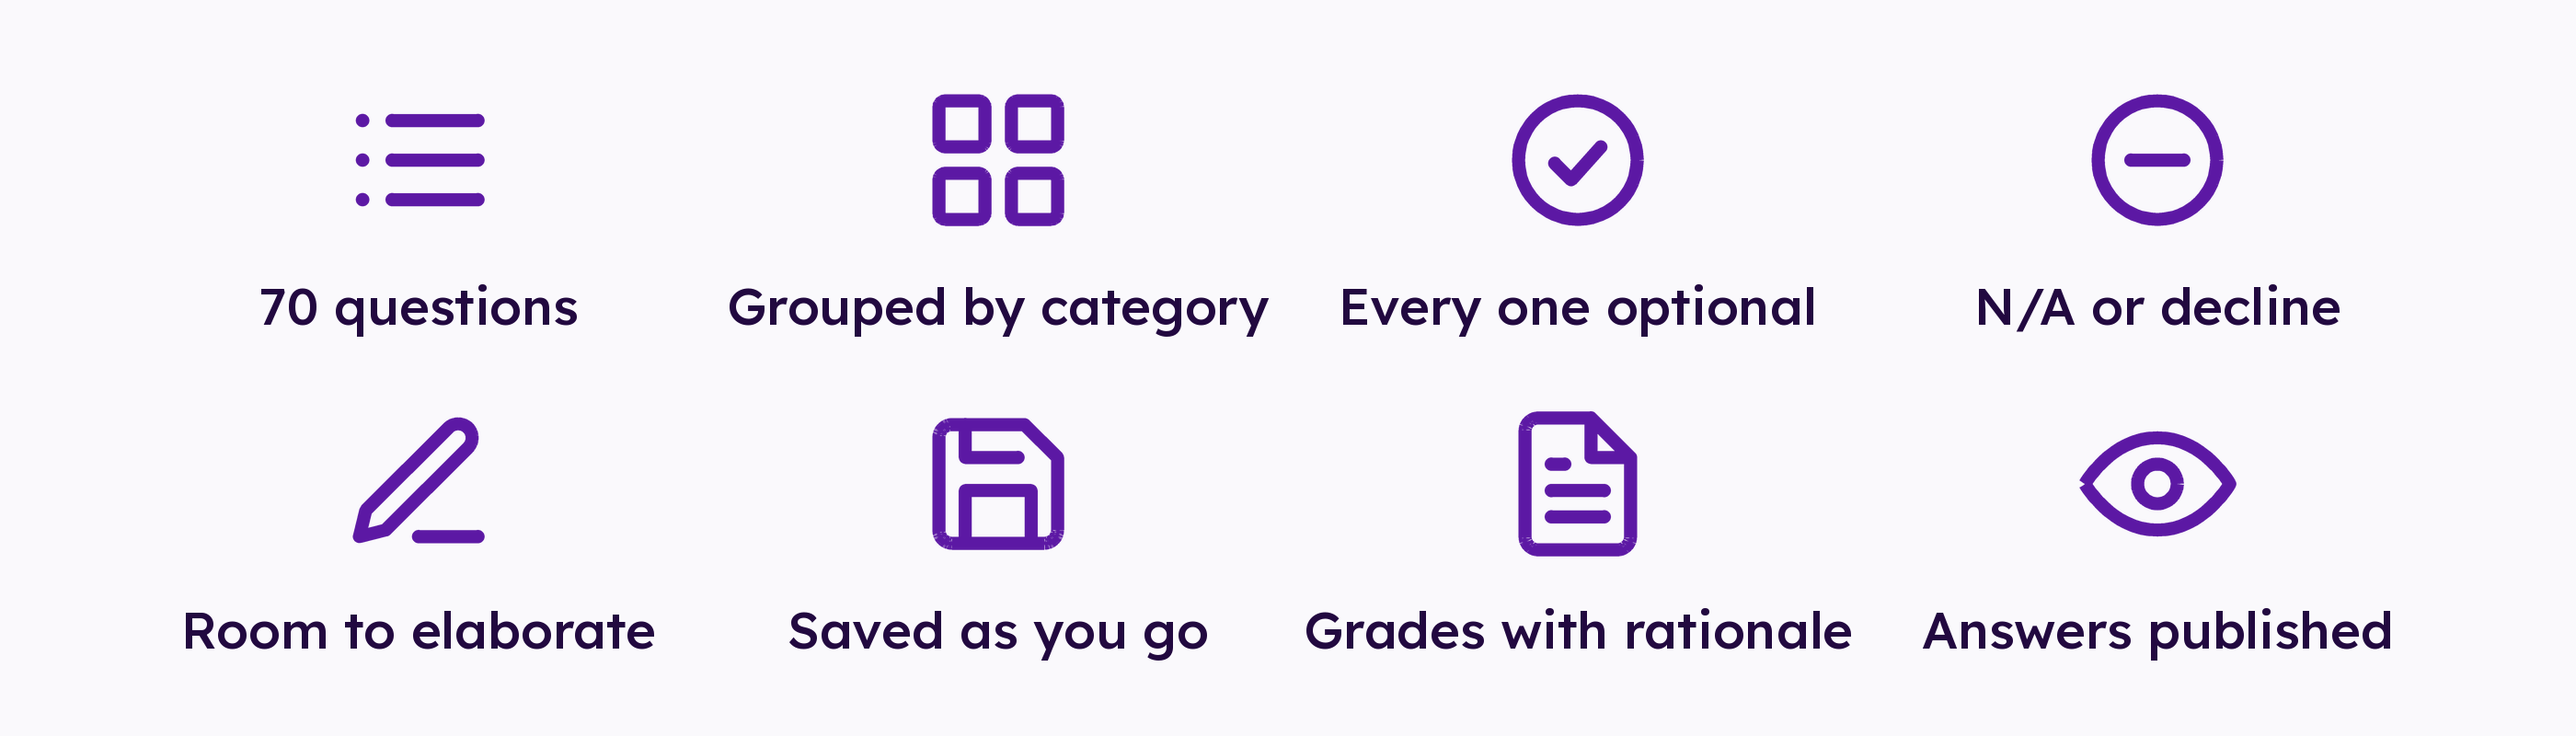
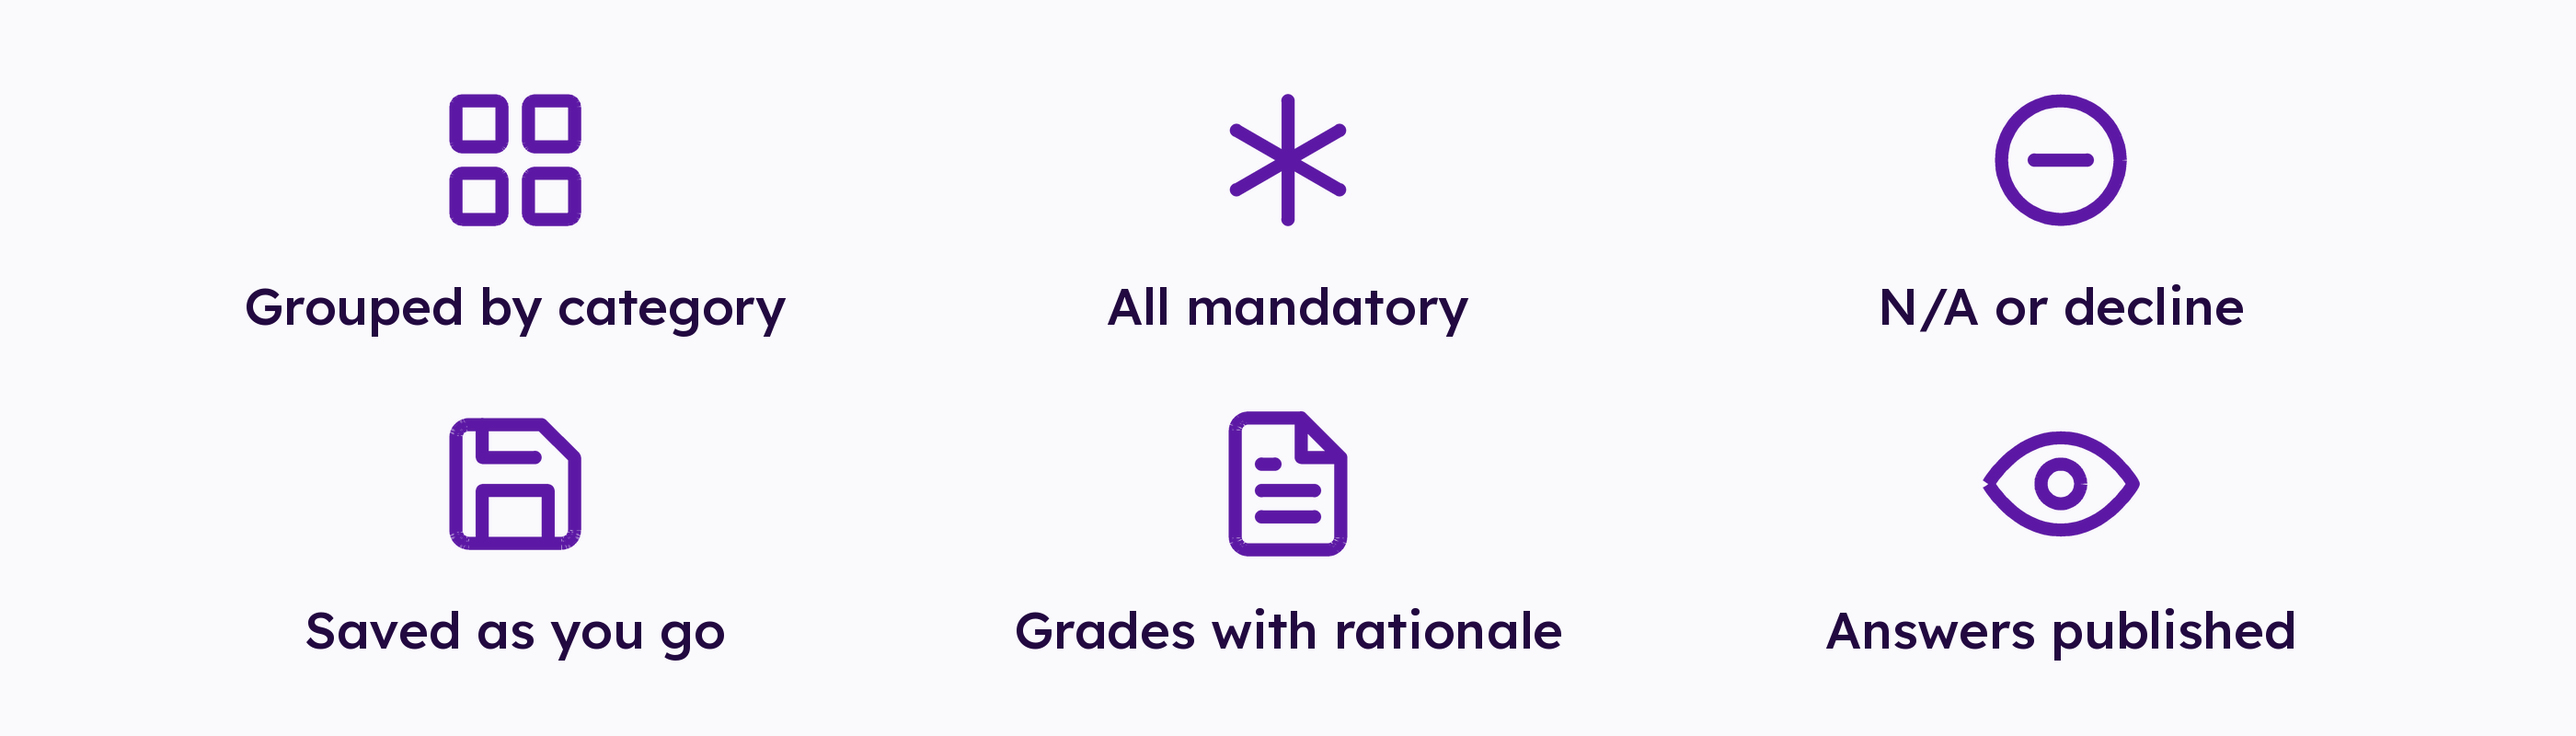
feat: add two late walking questions, make every question mandatory
- finalize.py: WLK-05 and WLK-06 arrive by CLI-12's route (no master row,
  carrying their own text), but graded. README documents why append.py
  can't take them: a new Form Responses 1 row renumbers every FR-* ID.
- gen-tally-categories.py: info drops the hand-maintained question count
  and "room to elaborate"; "every one optional" becomes "all mandatory"
  with an asterisk. OPTIONAL and THRESHOLD are kept but no longer shipped.
- gen-tally-back.py: new "go back" pointer strip for the form.

diff --git a/scripts/gen-tally-categories.py b/scripts/gen-tally-categories.py
@@ -357,28 +357,40 @@ HOUSEKEEPING = [
      '2-2h14a2 2 0 0 1 2 2z"/><path d="M8 9h8M8 13h5"/></svg>'),
 ]
 
-# The info page, distilled to the eight things a candidate needs to know before
-# starting. Wording follows that page; QUESTION_COUNT is stated there too, so it
-# has to be updated by hand when the shipping set changes size.
-QUESTION_COUNT = 70
+# The info page, distilled to the six things a candidate needs to know before
+# starting. Wording follows that page.
+#
+# It was eight. The question count came out because it was a hand-maintained
+# number in a rendered image - the one tile here that silently goes wrong when
+# the shipping set changes size, and it had no way of knowing it had. "Room to
+# elaborate" came out with it: it described the answer fields rather than a rule
+# of the questionnaire, which is the only thing the other five tiles do.
 INFO = [
-    ("%d questions" % QUESTION_COUNT,
-     '<svg viewBox="0 0 24 24"><path d="M8 6h13M8 12h13M8 18h13"/>'
-     '<path d="M3.5 6h.01M3.5 12h.01M3.5 18h.01"/></svg>'),
     ("Grouped by category",
      '<svg viewBox="0 0 24 24"><rect x="3" y="3" width="7" height="7" rx="1"/>'
      '<rect x="14" y="3" width="7" height="7" rx="1"/>'
      '<rect x="3" y="14" width="7" height="7" rx="1"/>'
      '<rect x="14" y="14" width="7" height="7" rx="1"/></svg>'),
-    ("Every one optional",
-     '<svg viewBox="0 0 24 24"><circle cx="12" cy="12" r="9"/>'
-     '<path d="M8.5 12.5l2.5 2.5 4.5-5"/></svg>'),
+    # An asterisk, the mark every form in the world puts beside a required field,
+    # and the reason this tile isn't a ticked circle any more: a tick reads as
+    # "you're fine", which is what the label used to say and is now the opposite
+    # of what it says. The three strokes cross at the centre and the round caps
+    # render_icon adds give it the six blunt points a form asterisk has.
+    #
+    # Drawn to a radius of 9 rather than a typographic asterisk's tighter one, for
+    # the reason `threshold`'s scale gives: at this render size an icon that only
+    # fills the middle of its box reads as a smaller icon, not a different shape,
+    # and the grid and the circle either side of it both run 3 to 21.
+    ("All mandatory",
+     '<svg viewBox="0 0 24 24"><line x1="12" y1="3" x2="12" y2="21"/>'
+     '<line x1="4.2" y1="7.5" x2="19.8" y2="16.5"/>'
+     '<line x1="4.2" y1="16.5" x2="19.8" y2="7.5"/></svg>'),
+    # Kept, and load-bearing now in a way it wasn't: with every question required,
+    # this is the only tile that tells a candidate what to do about a question
+    # they can't answer.
     ("N/A or decline",
      '<svg viewBox="0 0 24 24"><circle cx="12" cy="12" r="9"/>'
      '<path d="M8 12h8"/></svg>'),
-    ("Room to elaborate",
-     '<svg viewBox="0 0 24 24"><path d="M12 20h9"/>'
-     '<path d="M16.5 3.5a2.12 2.12 0 0 1 3 3L7 19l-4 1 1-4z"/></svg>'),
     ("Saved as you go",
      '<svg viewBox="0 0 24 24"><path d="M19 21H5a2 2 0 0 1-2-2V5a2 2 0 0 1 2-2h11l5 5v11'
      'a2 2 0 0 1-2 2z"/><path d="M17 21v-8H7v8"/><path d="M7 3v5h8"/></svg>'),
@@ -392,17 +404,22 @@ INFO = [
 
 # The skipping-and-grades paragraph, which sits inside the same briefing `info`
 # summarises. It gets its own graphic because it's the one paragraph there that
-# costs the candidate something: `info`'s "Every one optional" tile states the
-# permission and stops, and the sentence that follows takes half of it back.
+# costs the candidate something: the permission to skip, and the sentence after it
+# that takes half of that back.
 #
 # Three tiles for the paragraph's three clauses, in its order: the permission, the
 # consequence, the way out. The middle tile is the reason the set exists, so it
 # doesn't get softened - the arrow points down.
+#
+# NOT IN THE FORM. This set and `threshold` below were both pulled on 2026-08-16,
+# when every question became mandatory and `info`'s tile changed to say so. They are
+# kept because they are still the record of how skipping was meant to work, and
+# because the questionnaire has reversed itself on this once already. Anything that
+# puts either graphic back has to reconcile it with that tile first.
 OPTIONAL = [
     # A skip-forward, the one glyph a candidate reads as "move past this" without a
-    # label. `info`'s two adjacent tiles use a ticked circle (every question
-    # optional) and a circle with a minus (N/A or decline); this is the action
-    # rather than the property, so it isn't a third circle.
+    # label. `info`'s "N/A or decline" tile is a circle with a minus in it; this is
+    # the action rather than the property, so it isn't a second circle.
     ("Skip any question",
      '<svg viewBox="0 0 24 24"><path d="M5 4l11 8-11 8z"/>'
      '<line x1="19" y1="4" x2="19" y2="20"/></svg>'),
@@ -491,8 +508,8 @@ GRADING = [
      '<svg viewBox="0 0 24 24"><path d="M16 21v-2a4 4 0 0 0-4-4H5a4 4 0 0 0-4 4v2"/>'
      '<circle cx="8.5" cy="7" r="4"/><path d="M17 11l2 2 4-4"/></svg>'),
     # Four lines of prose, ragged right: an answer as the candidate typed it, with no
-    # grade attached. Info's question-count tile is also a stack of lines, but that
-    # one is a bulleted list - a numbered set of questions - and this one isn't.
+    # grade attached. It had to be told apart from `info`'s bulleted question-count
+    # tile until that tile was removed; it now stands alone.
     ("Some aren’t graded",
      '<svg viewBox="0 0 24 24"><line x1="21" y1="5" x2="3" y2="5"/>'
      '<line x1="17" y1="10" x2="3" y2="10"/>'
@@ -519,9 +536,9 @@ GRADING = [
 # has to be filled. Struck-through glyphs are `saving`'s and Conduct's.
 THRESHOLD = [
     # A scale with end stops and a marker somewhere along it, off centre. Not a
-    # ticked circle (info's "Every one optional") and not the concentric rings
-    # General uses for "one policy change": the instruction isn't "choose correctly",
-    # it's "choose the point on the scale you actually occupy".
+    # ticked circle and not the concentric rings General uses for "one policy
+    # change": the instruction isn't "choose correctly", it's "choose the point on
+    # the scale you actually occupy".
     #
     # The end stops run nearly the full height of the box on purpose: at the size
     # these render, an icon that only uses the middle third reads as a smaller icon
@@ -546,7 +563,7 @@ THRESHOLD = [
 #
 # The only set here that isn't about the questionnaire's subject matter or its
 # rules, which is why its first tile is progress rather than a topic: a candidate
-# arrives at this page having answered up to 70 questions, and the useful thing to
+# arrives at this page having answered dozens of questions, and the useful thing to
 # say first is that the end is in sight.
 FEEDBACK = [
     # An open ring, the arc nearly closed. It's the same idea as `complete`'s green
@@ -607,7 +624,7 @@ CONDUCT = [
 SETS = {"categories": 5, "complete": 5, "general": 3, "walking": 4,
         "rolling": 4, "transit": 4, "housing": 4, "climate": 3,
         "arts": 3, "healthcare": 2, "reconciliation": 2, "governance": 2,
-        "housekeeping": 3, "info": 4, "optional": 3, "saving": 3,
+        "housekeeping": 3, "info": 3, "optional": 3, "saving": 3,
         "authorship": 2, "grading": 4, "threshold": 2,
         "feedback": 4, "conduct": 5}                            # name -> columns
 

diff --git a/scripts/gen-tally-back.py b/scripts/gen-tally-back.py
@@ -1,0 +1,136 @@
+#!/usr/bin/env python3
+"""Generate the "go back" pointer image for the Tally questionnaire.
+
+Run from repo root:  python3 scripts/gen-tally-back.py
+Output: assets/tally/back.png  (2800x250)
+
+A curved arrow sweeping up into the top-left corner, with one line of Lexend
+beside it. Unlike every other in-form graphic here it is not decoration or a
+section break: it points at a control. Tally puts its back arrow above the form
+body at the left, so the tip has to sit near this image's own top-left corner
+and aim off the edge, which is what fixes the whole composition - arrow hard
+left, text to its right, and a strip short enough that the tip stays close to
+the control it means.
+
+That also means the size it renders at matters more than it does elsewhere. The
+arrow fills nearly the whole strip rather than sitting in it as a tile-sized
+icon: at in-form width a glyph drawn to the 86-unit tile metric reads as another
+topic icon, and a candidate scanning the page has no reason to follow it.
+
+The strip is half the height it started at. The arrow is drawn wide and shallow
+rather than scaled down to suit, because the short version of this image is the
+one where shrinking hurts: an arrow that loses half its height next to type that
+keeps all of its own stops being the thing the eye follows and becomes a bullet
+beside the sentence. Widening it holds its length, and a long flat sweep is the
+more natural gesture in a strip this shape anyway.
+
+Reuses the stroked-SVG renderer from gen-tally-categories.py, and the Lexend
+loader and palette that file takes from gen-fb-banner.py, so the arrow is drawn
+by the same code and in the same weight as the icons on every other page.
+"""
+import argparse, importlib.util, os
+from PIL import Image, ImageDraw
+
+ROOT = os.path.dirname(os.path.dirname(os.path.abspath(__file__)))
+
+# Every Tally asset lands here, separate from the site's own images.
+OUT_DIR = os.path.join(ROOT, "assets", "tally")
+os.makedirs(OUT_DIR, exist_ok=True)
+
+
+def _load(name):
+    """Import a sibling script by path; the hyphens block a normal import."""
+    spec = importlib.util.spec_from_file_location(
+        name.replace("-", "_"), os.path.join(ROOT, "scripts", "%s.py" % name))
+    mod = importlib.util.module_from_spec(spec)
+    spec.loader.exec_module(mod)
+    return mod
+
+cat = _load("gen-tally-categories")
+fb = cat.fb
+
+INKY = cat.INKY
+LIVABLE = cat.LIVABLE
+PAGE_BG = cat.PAGE_BG
+
+LINE = "Click here to go back at any time"
+
+# Drawn in a 170x100 box rather than the icons' square 24, for two reasons: the
+# arrowhead needs a fractional-unit tip to sit near 45 degrees and the 24-grid
+# would round it into a visible kink, and the strip is far wider than it is tall,
+# so the arrow has to be too. render_icon reads the viewBox, so it scales the
+# same way the icons do.
+#
+# The shaft leaves the bottom right running almost flat, then lifts into the
+# corner: a gesture rather than the shortest path, because a straight diagonal
+# reads as "over there" and a candidate follows it to the edge of the image and
+# stops, while a curve keeps the eye moving past the corner, which is where the
+# control actually is. The bow is deliberately shallow - the first draft turned
+# through most of a right angle and read as a hook, an object in its own right,
+# instead of as a direction.
+#
+# The head is one three-point polyline through the tip, not two strokes meeting
+# there, so render_icon's round join closes it the way the Feather icons close
+# their corners.
+ARROW = ('<svg viewBox="0 0 170 100">'
+         '<path d="M164 84 C112 94, 56 54, 15 16"/>'
+         '<path d="M21 38.2 L15 16 L37.6 20.3"/>'
+         '</svg>')
+
+VB_W, VB_H = 170, 100                 # the arrow's viewBox, needed to place it
+
+# Lighter than the icons' 2-in-24 as a fraction of the glyph it draws. The tile
+# glyphs are read at a glance in a row of six; this one is read alone and several
+# times their size, where the Feather ratio thickens into a slab.
+STROKE = 12.0
+
+GW, GH = 1400, 125                    # design grid; all dimensions below are in these units
+ARROW_W = 178                         # the arrow's width; its height follows the viewBox
+# Tighter than the topic grids' 70, and for a reason those don't have: every
+# unit of margin here is a unit between the tip and the control it points at.
+SIDE = 56
+GAP = 46                              # arrow to text
+TEXT_SZ = 56
+
+
+def build(out_w=GW * 2):
+    S = out_w / GW                              # grid unit -> output pixels
+    Wp, Hp = int(round(GW * S)), int(round(GH * S))
+
+    img = Image.new("RGB", (Wp, Hp), PAGE_BG)
+    draw = ImageDraw.Draw(img)
+
+    # render_icon always returns a square mask, scaled to the viewBox's longer
+    # side, so a viewBox wider than it is tall leaves the bottom of that square
+    # empty. Centre the drawn height, not the square it arrives in, or the arrow
+    # hangs off the top of the strip.
+    aw = int(round(ARROW_W * S))
+    ah = aw * VB_H / VB_W
+    ax = int(round(SIDE * S))
+    ay = int(round((Hp - ah) / 2))
+    mask = cat.render_icon(ARROW, aw, stroke=STROKE)
+    img.paste(Image.new("RGB", (aw, aw), LIVABLE), (ax, ay), mask)
+
+    # Shrink to fit rather than wrap: two lines beside the arrow would put the
+    # second one below the tip, and the sentence is short enough that it never
+    # has to.
+    tx = int(round((SIDE + ARROW_W + GAP) * S))
+    avail = Wp - tx - int(round(SIDE * S))
+    sz = int(TEXT_SZ * S)
+    f = fb.font(sz, 500)
+    while draw.textlength(LINE, font=f) > avail and sz > int(28 * S):
+        sz -= max(1, int(S))
+        f = fb.font(sz, 500)
+    draw.text((tx, Hp / 2), LINE, font=f, fill=INKY, anchor="lm")
+
+    out = os.path.join(OUT_DIR, "back.png")
+    img.save(out, optimize=True)
+    print("wrote", out, img.size, "%.0f KB" % (os.path.getsize(out) / 1024))
+
+
+if __name__ == "__main__":
+    ap = argparse.ArgumentParser(description=__doc__)
+    ap.add_argument("--width", type=int, default=GW * 2,
+                    help="output width in px (default 2800; Tally recommends 1400)")
+    a = ap.parse_args()
+    build(a.width)

diff --git a/scripts/questionnaire/finalize.py b/scripts/questionnaire/finalize.py
@@ -125,6 +125,18 @@ RESUB = ("Refreshed against the Victori'Us resubmission of 2026-08-09, which arr
          "after voting closed and was not scored. The rewording is the committee's, "
          "carried over from the 2026-08-01 version of the same question.")
 
+# Two walking questions that arrived 2026-08-16, by the same route as CLI-12: straight to
+# the committee, after voting closed and after the master was built. Like CLI-12 they carry
+# their own text rather than an origin, and for the same reason - append.py cannot take
+# them, because a new Form Responses 1 row renumbers every FR-* ID and its prefix check
+# refuses the run. Unlike CLI-12 and the RUSH block they are graded. That is a decision
+# made off the sheet, since no committee member has scored either question, which is the
+# argument that kept the other four late arrivals ungraded.
+LATE_WALKING = ("Submitted 2026-08-16 14:40 PDT, after voting closed and after the master "
+                "was built, so it has no master row behind it and no committee score. "
+                "Ships as submitted and graded; write a scoring guide before it goes out, "
+                "because nothing on the sheet establishes what a strong answer looks like.")
+
 INFRA_OPTIONS = (
     "a) Allow substantially more housing and commercial development to grow the tax base "
     "and help fund infrastructure renewal. "
@@ -140,8 +152,8 @@ INFRA_OPTIONS = (
 #   ref        stable ID for the final questionnaire
 #   origins    the master IDs this row came from; the first is the row we inherit
 #              submitter / source / municipality from. Empty only for a question that
-#              never went through the master at all - see CLI-12 - which then has to
-#              carry its own question, options, qtype and source
+#              never went through the master at all - see CLI-12, WLK-05, WLK-06 - which
+#              then has to carry its own question, options, qtype and source
 #   change     "Unchanged" | "Reworded" | "Merged" | "Reworded + merged" | "Recategorised"
 #   asked_by   who called for the change, from the voter comments
 #   why        the argument for it, condensed from those comments
@@ -240,6 +252,43 @@ FINAL = [
         why="Scoped to Victoria as submitted. 'The downtown area' means something very "
             "different in Sidney or North Saanich, so it is reworded to reach the whole "
             "region.",
+    ),
+    dict(
+        ref="WLK-05", category="Walking", origins=[], municipality=ALL,
+        question="Parents frequently express concerns about safety risks their children "
+                 "experience from motor traffic while walking to school and neighbourhood "
+                 "playgrounds. Dangers of speeding traffic, lack of safe crosswalks, "
+                 "absence of Stop signs, and in some municipalities lack of 30km/hr school "
+                 "zone/playground signage persist. How will you work with parent groups, "
+                 "school staff, and municipal staff to assure that children's safety is "
+                 "prioritized over convenience and flow of motor traffic?",
+        options="", qtype="Long answer (1000 characters)",
+        source="Late submission", change="Unchanged",
+        note=LATE_WALKING + " Overlaps WLK-02, which asks for one concrete first-term "
+             "commitment on pedestrian safety region-wide; this one is narrower (children, "
+             "school and playground routes) and asks about process rather than a "
+             "commitment, so the two are worth asking together, but read them side by side "
+             "before the form is built.",
+    ),
+    dict(
+        ref="WLK-06", category="Walking", origins=[], municipality=ALL,
+        question="The CRD is home to some of the oldest people in Canada. Many of these "
+                 "older adults once drove but now rely on walking to get to their "
+                 "destinations, and very frequently pedestrian conditions are hazardous. "
+                 "Broken and tilting pavement on sidewalks, lips on curb cuts, absent or "
+                 "poorly maintained crosswalks, and lack of engineered traffic calming all "
+                 "increase the risk of falls that threaten the independence of older adults "
+                 "and those living with disabilities. To date, few municipalities have "
+                 "constructed pedestrian infrastructure to make safe and pleasant walking a "
+                 "priority. What will you do, in a 4 year term, to identify, prioritize and "
+                 "set time-lines to assure that pedestrian infrastructure is improved to "
+                 "meet the needs of the older and disabled members of your community?",
+        options="", qtype="Long answer (1000 characters)",
+        source="Late submission", change="Unchanged",
+        note=LATE_WALKING + " Asks for three things at once - identify, prioritise, set "
+             "timelines - so a scoring guide should say whether a candidate who answers "
+             "only the first two can still score full marks. Sits next to WLK-03, which "
+             "asks the budget-share version of the same problem as a single choice.",
     ),
 
     # ------------------------------------------------------ Rolling & cycling

diff --git a/scripts/questionnaire/README.md b/scripts/questionnaire/README.md
@@ -259,16 +259,22 @@ a filtered view of the master, so a question left out of both would vanish silen
 #### Questions with no master row
 
 A `FINAL` row may have `origins=[]`. That is for a question that arrived too late to go
-through intake, voting and the master at all — `CLI-12`, added 2026-08-13, is the only one.
-Such a row has to carry its own `question`, `options`, `qtype` and `source`, because there is
-no master row to read them from, and the run aborts if `question` or `qtype` is missing rather
-than shipping a blank cell to candidates. It is ungraded, like the other questions no
-committee member scored, and it appears in no `Excluded Questions` bookkeeping, since it
-displaced nothing.
+through intake, voting and the master at all: `CLI-12`, added 2026-08-13, and `WLK-05` and
+`WLK-06`, added 2026-08-16. Such a row has to carry its own `question`, `options`, `qtype`
+and `source`, because there is no master row to read them from, and the run aborts if
+`question` or `qtype` is missing rather than shipping a blank cell to candidates. It appears
+in no `Excluded Questions` bookkeeping, since it displaced nothing.
 
-The alternative is to put the question through `append.py` so it lands in the master properly.
-That is the better path if more than one late question shows up, or if the committee wants to
-score it: `origins=[]` buys a one-off, not a second intake route.
+`CLI-12` is ungraded, like the other questions no committee member scored. The two walking
+questions are graded anyway, by a decision made off the sheet, so `graded` is the one field
+where the two cases differ.
+
+The alternative is to put the question through `append.py` so it lands in the master properly,
+which is the better path if the committee wants to score it — but it is not currently open to
+a `Form Responses 1` submission. `FR-*` IDs are positional, so a new row anywhere in that tab
+renumbers the block and `append.py`'s prefix check refuses the run; only a tab appended to the
+end of `SOURCES` lands cleanly. Until there is one, `origins=[]` is the only route a late
+question has.
 
 #### Homes for Living ships verbatim
 
